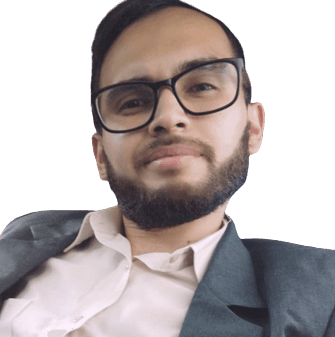
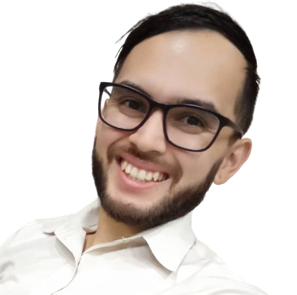
Modificando foto seccion Equipo y ajustando textos seccion Servicios

diff --git a/index.html b/index.html
@@ -77,10 +77,10 @@
 
       <!--SECCIÓN SERVICIOS-->
       <section class="section-servicios" id="servicios">
-        <h2 class="titulo-principal-nosotros" >NUESTROS SERVICIOS CONTABLES</h2>
+        <h2 class="titulo-principal-nosotros" >NUESTROS SERVICIOS</h2>
         <div class="container">
           <p class="parrafo-servicios-descripcion">
-            En Contador de Números contamos con mas de 4 años de experiencia al servicio de su empresa. Nuestros servicios están diseñados para satisfacer las necesidades de grandes, pequeñas y medianas empresas.
+            Nuestros servicios están meticulosamente diseñados para abordar las necesidades de empresas grandes, medianas y pequeñas, brindando soluciones adaptadas a su crecimiento y trayectoria.
           </p>
         </div>
         <div class="container text-center">
@@ -121,7 +121,7 @@
           </div>
           <h3 class="titulo-servicios">Asesoría y Gestión Laboral</h3>
           <p class="parrafo-servicios">
-            La gestión del personal puede ser una tarea compleja, pero en Contador de Números, nuestros servicios profesionales te brindan soluciones prácticas. Desde el cumplimiento de regulaciones laborales hasta el bienestar de tu equipo de trabajo.
+            En un entorno empresarial donde la administración del personal puede ser compleja, los servicios profesionales de Contador de Números ofrecen soluciones prácticas. Desde asegurar el cumplimiento de regulaciones laborales hasta fomentar.
           </p>
           <a href="/html/laboral.html" target="_blank"><button type="button" class="btn btn-primary">Ver Más</button></a>
       </div>
@@ -130,7 +130,7 @@
 
       <!--SECCIÓN EQQUIPO-->
       <section class="contenedor-equipo" id="equipo">
-        <h2 class="titulo-principal-nosotros contador-titulo" >NUESTRO EQUIPO DE CONTADORES</h2>
+        <h2 class="titulo-principal-nosotros contador-titulo" >NUESTRO EQUIPO</h2>
         <div class="container">
           <div class="card" >
             <div class="img-contenedor-equipo">

diff --git a/css/styless.css b/css/styless.css
@@ -449,6 +449,7 @@ body{
 .card-img-top{
     border-radius: 100% ;
     width: auto;
+    transform: rotate(-20deg);
 }
 
 @media screen and (max-width: 768px)
